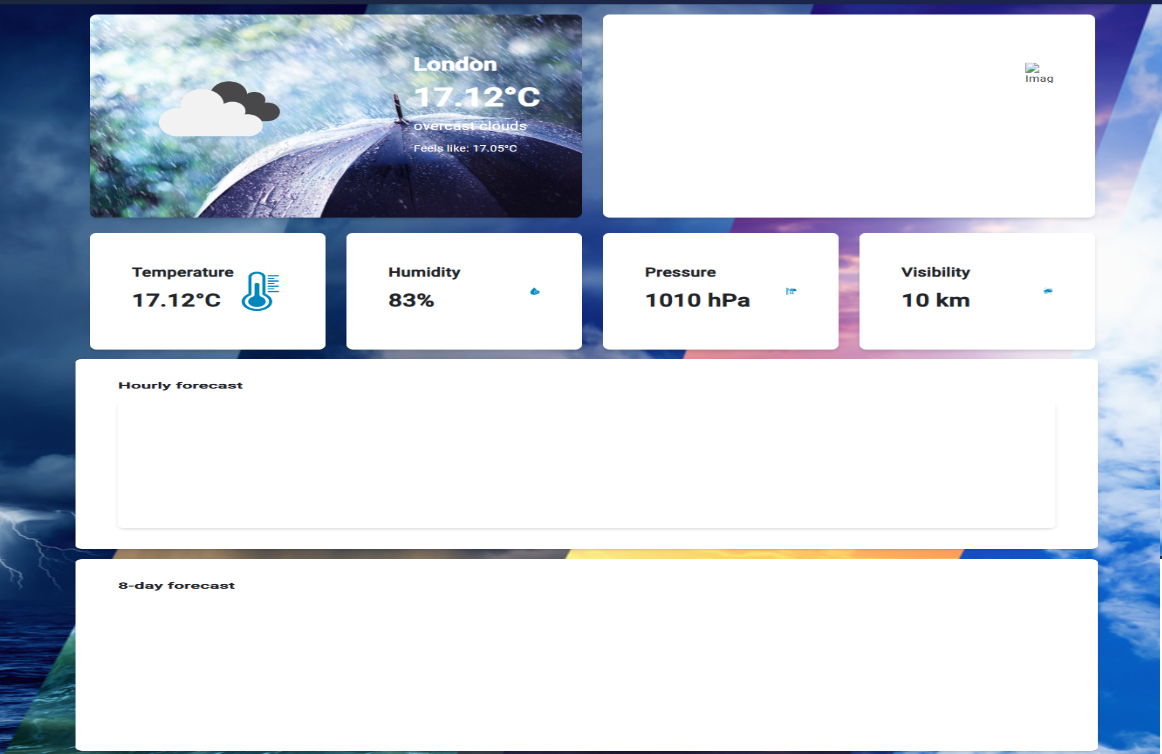
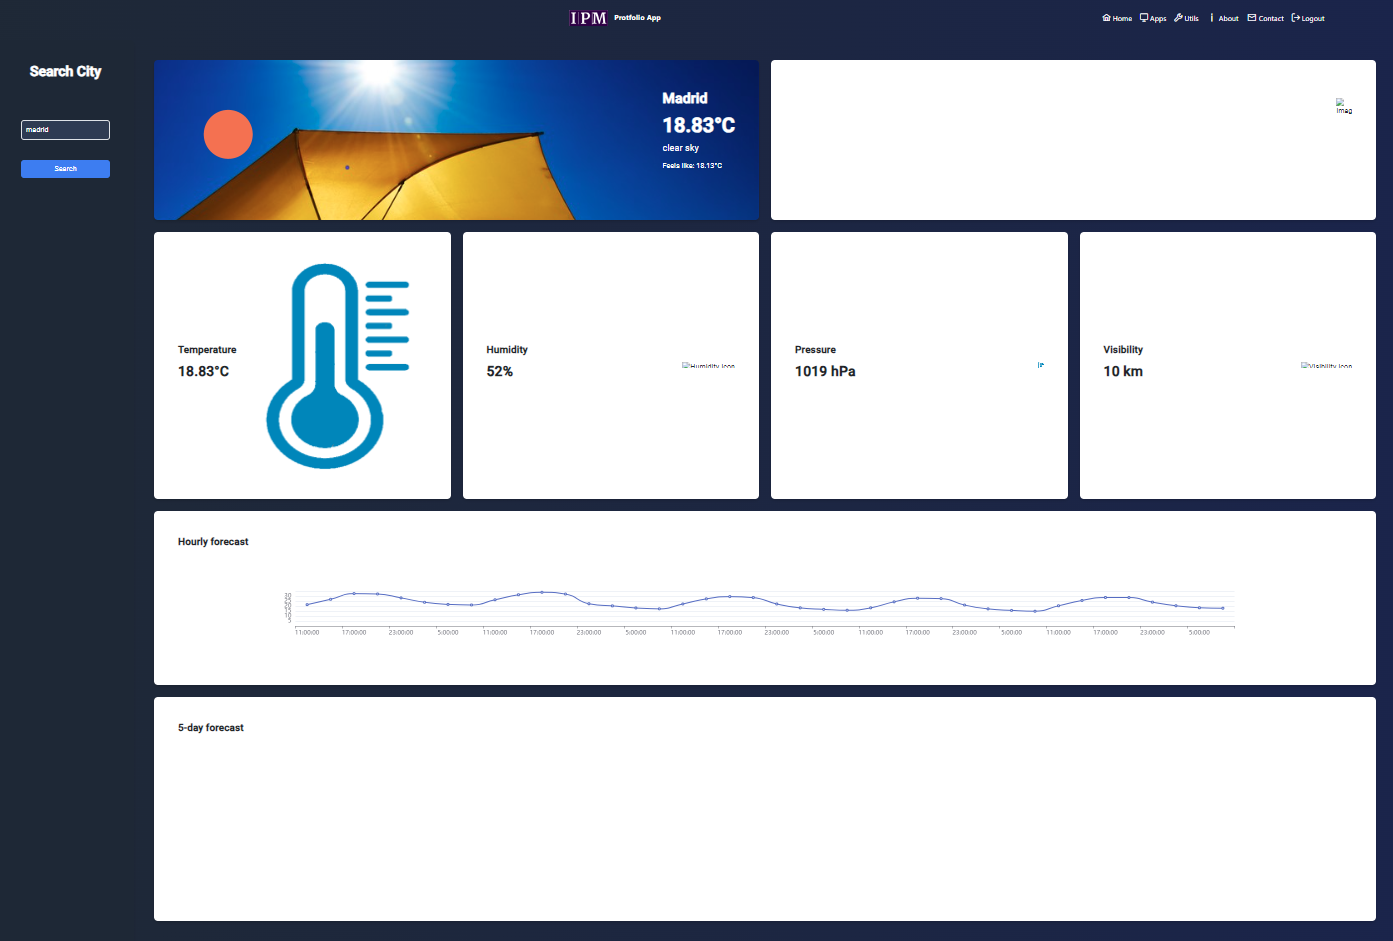
modified:   src/app/Apps-Tools/app-weather/components/forecast/forecast.component.ts 	modified:   src/app/Apps-Tools/app-weather/components/weather-results/weather-results.component.css 	modified:   src/app/Apps-Tools/app-weather/components/weather-results/weather-results.component.html 	modified:  

diff --git a/src/app/Apps-Tools/app-weather/components/weather-results/weather-results.component.ts b/src/app/Apps-Tools/app-weather/components/weather-results/weather-results.component.ts
@@ -1,33 +1,40 @@
-import { Component, Input, OnInit } from '@angular/core';
+import { Component, Input, OnInit, OnChanges, SimpleChanges } from '@angular/core';
 
 @Component({
   selector: 'app-weather-results',
   templateUrl: './weather-results.component.html',
   styleUrls: ['./weather-results.component.css']
 })
-export class WeatherResultsComponent implements OnInit {
+export class WeatherResultsComponent implements OnInit, OnChanges {
   @Input() weather: any;
   @Input() forecast: any;
   @Input() chartData: any;
+
   currentDate: string = '';
   currentTime: string = '';
   hourlyChartOptions: any;
   dailyChartOptions: any;
-  weeklyForecast: any[] = [];  // Añadimos la definición de weeklyForecast
-  recommendation: { text: string, imageUrl: string, backgroundImageUrl: string } = {
-    text: 'No recommendation available.',
-    imageUrl: 'assets/default-image.png',
-    backgroundImageUrl: 'assets/default-bg.jpg'
-  };
+  weeklyForecast: any[] = [];
+  recommendation: { text: string, imageUrl: string } = { text: '', imageUrl: '' };
 
   ngOnInit(): void {
     if (this.weather && this.forecast && this.chartData) {
-      this.setDateTime();
-      this.setHourlyChartOptions();
-      this.setDailyChartOptions();
-      this.setWeeklyForecast();
-      this.setRecommendation();
+      this.initializeData();
     }
+  }
+
+  ngOnChanges(changes: SimpleChanges): void {
+    if (changes['weather'] && this.weather) {
+      this.initializeData();
+    }
+  }
+
+  initializeData(): void {
+    this.setDateTime();
+    this.setHourlyChartOptions();
+    this.setDailyChartOptions();
+    this.setWeeklyForecast();
+    this.setRecommendation();
   }
 
   setDateTime() {
@@ -57,8 +64,8 @@ export class WeatherResultsComponent implements OnInit {
   }
 
   setDailyChartOptions() {
-    const dates = this.forecast.list.filter((entry: any, index: number) => index % 8 === 0).slice(0, 5).map((entry: any) => new Date(entry.dt * 1000).toLocaleDateString());
-    const temperatures = this.forecast.list.filter((entry: any, index: number) => index % 8 === 0).slice(0, 5).map((entry: any) => entry.main.temp);
+    const dates = this.forecast.map((entry: any) => new Date(entry.dt * 1000).toLocaleDateString());
+    const temperatures = this.forecast.map((entry: any) => entry.temp.day);
 
     this.dailyChartOptions = {
       xAxis: {
@@ -77,18 +84,17 @@ export class WeatherResultsComponent implements OnInit {
   }
 
   setWeeklyForecast() {
-    this.weeklyForecast = this.forecast.list.filter((entry: any, index: number) => index % 8 === 0).slice(0, 5).map((data: any) => ({
+    this.weeklyForecast = this.forecast.slice(0, 5).map((data: any) => ({
       name: new Date(data.dt * 1000).toLocaleDateString('default', { weekday: 'short', month: 'short', day: 'numeric' }),
       temp: {
-        day: data.main.temp,
-        night: data.main.temp_min
+        day: data.temp.day,
       },
       weather: data.weather
     }));
   }
 
   getBackgroundImage() {
-    const weatherDescription = this.weather.weather[0].description.toLowerCase();
+    const weatherDescription = this.weather['weather'][0].description.toLowerCase();
 
     switch (true) {
       case weatherDescription.includes('clear') || weatherDescription.includes('few clouds') || weatherDescription.includes('scattered clouds'):
@@ -105,42 +111,37 @@ export class WeatherResultsComponent implements OnInit {
   }
 
   setRecommendation() {
-    const weatherDescription = this.weather.weather[0].description.toLowerCase();
+    const weatherDescription = this.weather['weather'][0].description.toLowerCase();
 
     switch (true) {
       case weatherDescription.includes('clear') || weatherDescription.includes('few clouds') || weatherDescription.includes('scattered clouds'):
         this.recommendation = {
           text: 'It\'s a beautiful day! Why not go for a walk or have a picnic?',
-          imageUrl: 'assets/recommendations/buenclima.jpg',
-          backgroundImageUrl: 'assets/typeofday/soleado.jpg'
+          imageUrl: 'assets/recommendations/buenclima.jpg'
         };
         break;
       case weatherDescription.includes('broken clouds') || weatherDescription.includes('overcast clouds'):
         this.recommendation = {
           text: 'It\'s a bit cloudy today. How about visiting a museum or going to the movies?',
-          imageUrl: 'assets/recommendations/museum.png.jpg',
-          backgroundImageUrl: 'assets/typeofday/cloud.jpg'
+          imageUrl: 'assets/recommendations/museum.png'
         };
         break;
       case weatherDescription.includes('rain') || weatherDescription.includes('shower rain') || weatherDescription.includes('thunderstorm'):
         this.recommendation = {
           text: 'It\'s raining outside. Why not stay indoors and read a book or play a game?',
-          imageUrl: 'assets/recommendations/juegosmesa.png',
-          backgroundImageUrl: 'assets/typeofday/rainy.jpg'
+          imageUrl: 'assets/recommendations/juegosmesa.png'
         };
         break;
       case weatherDescription.includes('snow') || weatherDescription.includes('light snow') || weatherDescription.includes('heavy snow'):
         this.recommendation = {
           text: 'It\'s snowing! How about building a snowman or going skiing?',
-          imageUrl: 'assets/recommendations/urbalchill.jpg',
-          backgroundImageUrl: 'assets/typeofday/snow.jpg'
+          imageUrl: 'assets/recommendations/urbalchill.jpg'
         };
         break;
       default:
         this.recommendation = {
           text: 'Be careful out there! The weather is extreme.',
-          imageUrl: 'assets/recommendations/becarefull.png',
-          backgroundImageUrl: 'assets/typeofday/extreme.jpg'
+          imageUrl: 'assets/recommendations/becarefull.png'
         };
         break;
     }

diff --git a/src/app/Apps-Tools/app-weather/components/weather-results/weather-results.component.html b/src/app/Apps-Tools/app-weather/components/weather-results/weather-results.component.html
@@ -1,35 +1,44 @@
-<div class="grid grid-cols-1 md:grid-cols-2 lg:grid-cols-4 gap-4 w-full md:max-w-6xl mx-auto">
+<div class="grid grid-cols-1 md:grid-cols-10 lg:grid-cols-10 gap-4 w-full md:max-w-8xl mx-auto">
   <!-- Información principal -->
-  <div [style.backgroundImage]="getBackgroundImage()" class="bg-white p-6 rounded-lg shadow-md flex flex-col col-span-1 md:col-span-2 lg:col-span-2 bg-cover bg-center">
+  <div [style.backgroundImage]="getBackgroundImage()" class="bg-gradient-to-r from-white to-blue-300 p-6 rounded-lg shadow-md flex flex-col col-span-1 md:col-span-4 lg:col-span-4 bg-cover bg-center">
     <div class="flex items-center justify-between mb-4">
       <div>
-        <img src="http://openweathermap.org/img/wn/{{ weather.weather[0].icon }}@4x.png" alt="Weather Icon">
+        <img src="http://openweathermap.org/img/wn/{{ weather['weather'][0].icon }}@4x.png" alt="Weather Icon">
       </div>
       <div>
         <h2 class="text-3xl text-white font-bold">{{ weather.name }}</h2>
         <p class="text-xl text-white">{{ currentDate }} {{ currentTime }}</p>
         <p class="text-5xl text-white font-bold">{{ weather.main.temp }}°C</p>
-        <p class="text-lg text-white">{{ weather.weather[0].description }}</p>
+        <p class="text-lg text-white">{{ weather['weather'][0].description }}</p>
         <p class="mt-2 text-white text-sm">Feels like: {{ weather.main.feels_like }}°C</p>
       </div>
     </div>
   </div>
 
   <!-- Recomendación de actividades -->
-  <div *ngIf="recommendation" [style.backgroundImage]="recommendation.backgroundImageUrl" class="bg-white p-6 rounded-lg shadow-md flex flex-col col-span-1 md:col-span-2 lg:col-span-2 bg-cover bg-center">
+  <div [style.backgroundImage]="'url(' + recommendation.imageUrl + ')'" class="bg-gradient-to-r from-white to-blue-300 p-6 rounded-lg shadow-md flex flex-col col-span-1 md:col-span-4 lg:col-span-4 row-span-1 md:row-span-2 lg:row-span-2 bg-cover bg-center">
     <div class="flex items-center justify-between mb-4">
       <div>
         <h2 class="text-3xl font-bold text-white">Recomendación de actividades</h2>
         <p class="text-lg text-white">{{ recommendation.text }}</p>
       </div>
-      <div>
-        <img [src]="recommendation.imageUrl" alt="Imagen de la actividad recomendada" class="h-24 w-24 object-cover">
+    </div>
+  </div>
+
+  <!-- Pronóstico semanal -->
+  <div class="bg-gradient-to-r from-white to-blue-300 p-6 rounded-lg shadow-md col-span-1 md:col-span-2 lg:col-span-2 row-span-1 md:row-span-3 lg:row-span-3">
+    <h3 class="text-xl font-bold mb-4">5-day forecast</h3>
+    <div class="grid grid-cols-5 gap-4">
+      <div *ngFor="let day of weeklyForecast" class="flex flex-col items-center">
+        <p class="text-lg font-bold">{{ day.name }}</p>
+        <img src="http://openweathermap.org/img/wn/{{ day.weather[0].icon }}@2x.png" alt="Weather Icon">
+        <p class="text-lg">{{ day.temp.day }}°C</p>
       </div>
     </div>
   </div>
 
   <!-- Tarjeta de Temperatura -->
-  <div class="bg-white p-6 rounded-lg shadow-md flex items-center justify-between">
+  <div class="bg-gradient-to-r from-blue-50 to-white p-6 rounded-lg shadow-md flex items-center justify-between">
     <div>
       <p class="text-xl font-bold">Temperature</p>
       <p class="text-3xl font-bold">{{ weather.main.temp }}°C</p>
@@ -40,18 +49,18 @@
   </div>
 
   <!-- Tarjeta de Humedad -->
-  <div class="bg-white p-6 rounded-lg shadow-md flex items-center justify-between">
+  <div class="bg-gradient-to-r from-blue-50 to-white p-5 rounded-lg shadow-md flex items-start justify-between">
     <div>
-      <p class="text-xl font-bold">Humidity</p>
-      <p class="text-3xl font-bold">{{ weather.main.humidity }}%</p>
+      <p class="text-base font-bold">Humidity</p>
+      <p class="text-base font-bold">{{ weather.main.humidity }}%</p>
     </div>
     <div>
-      <img src="assets/humedad.png" alt="Humidity Icon" class="h-24 w-24">
+      <img src="assets/humedad.png" alt="Humidity Icon" >
     </div>
   </div>
 
   <!-- Tarjeta de Presión -->
-  <div class="bg-white p-6 rounded-lg shadow-md flex items-center justify-between">
+  <div class="bg-gradient-to-r from-blue-50 to-white p-5 rounded-lg shadow-md flex items-center justify-between">
     <div>
       <p class="text-xl font-bold">Pressure</p>
       <p class="text-3xl font-bold">{{ weather.main.pressure }} hPa</p>
@@ -62,7 +71,7 @@
   </div>
 
   <!-- Tarjeta de Visibilidad -->
-  <div class="bg-white p-6 rounded-lg shadow-md flex items-center justify-between">
+  <div class="bg-gradient-to-r from-blue-50 to-white p-5 rounded-lg shadow-md flex items-center justify-between">
     <div>
       <p class="text-xl font-bold">Visibility</p>
       <p class="text-3xl font-bold">{{ weather.visibility / 1000 }} km</p>
@@ -73,14 +82,8 @@
   </div>
 
   <!-- Gráfica del clima por horas -->
-  <div class="bg-white p-6 rounded-lg shadow-md col-span-1 md:col-span-2 lg:col-span-4">
+  <div class="bg-gradient-to-r from-white to-blue-300 p-5 rounded-lg shadow-md col-span-1 md:col-span-8 lg:col-span-8">
     <h3 class="text-xl font-bold mb-4">Hourly forecast</h3>
     <app-forecast [forecastData]="forecast"></app-forecast>
-  </div>
-
-  <!-- Pronóstico semanal -->
-  <div class="bg-white p-6 rounded-lg shadow-md col-span-1 md:col-span-2 lg:col-span-4">
-    <h3 class="text-xl font-bold mb-4">5-day forecast</h3>
-    <div echarts [options]="dailyChartOptions" class="echart" style="height: 300px;"></div>
   </div>
 </div>

diff --git a/src/app/Apps-Tools/app-weather/components/forecast/forecast.component.ts b/src/app/Apps-Tools/app-weather/components/forecast/forecast.component.ts
@@ -1,23 +1,24 @@
-import { Component, Input, OnInit } from '@angular/core';
+import { Component, Input, OnChanges } from '@angular/core';
+import { EChartsOption } from 'echarts';
 
 @Component({
   selector: 'app-forecast',
   templateUrl: './forecast.component.html',
   styleUrls: ['./forecast.component.css']
 })
-export class ForecastComponent implements OnInit {
+export class ForecastComponent implements OnChanges {
   @Input() forecastData: any;
-  options: any;  // Definimos la propiedad options
+  options: EChartsOption = {};
 
-  ngOnInit(): void {
+  ngOnChanges(): void {
     if (this.forecastData) {
       this.setOptions();
     }
   }
 
-  setOptions() {
-    const dates = this.forecastData.slice(0, 8).map((entry: any) => new Date(entry.dt * 1000).toLocaleTimeString([], { hour: '2-digit', minute: '2-digit' }));
-    const temperatures = this.forecastData.slice(0, 8).map((entry: any) => entry.main.temp);
+  setOptions(): void {
+    const dates = this.forecastData.list.map((entry: any) => new Date(entry.dt * 1000).toLocaleTimeString());
+    const temperatures = this.forecastData.list.map((entry: any) => entry.main.temp);
 
     this.options = {
       xAxis: {
@@ -35,4 +36,3 @@ export class ForecastComponent implements OnInit {
     };
   }
 }
-

diff --git a/src/app/Apps-Tools/app-weather/components/weather-results/weather-results.component.css b/src/app/Apps-Tools/app-weather/components/weather-results/weather-results.component.css
@@ -11,8 +11,8 @@
   grid-template-columns: repeat(2, 1fr);
 }
 
-.grid-cols-4 {
-  grid-template-columns: repeat(4, 1fr);
+.grid-cols-3 {
+  grid-template-columns: repeat(3, 1fr);
 }
 
 .bg-white {
@@ -20,11 +20,11 @@
 }
 
 .p-6 {
-  padding: 16px;
+  padding: 1.5rem; 
 }
 
 .rounded-lg {
-  border-radius: 8px;
+  border-radius: 0.5rem; /* 8px */
 }
 
 .shadow-md {
@@ -32,27 +32,27 @@
 }
 
 .text-3xl {
-  font-size: 24px;
+  font-size: 1.875rem; /* 30px */
 }
 
 .font-bold {
-  font-weight: bold;
+  font-weight: 700;
 }
 
 .text-lg {
-  font-size: 18px;
+  font-size: 1.125rem; /* 18px */
 }
 
 .text-sm {
-  font-size: 14px;
+  font-size: 0.875rem; /* 14px */
 }
 
 .h-32 {
-  height: 32px;
+  height: 8rem; /* 128px */
 }
 
 .w-32 {
-  width: 32px;
+  width: 8rem; /* 128px */
 }
 
 .object-cover {
@@ -60,9 +60,9 @@
 }
 
 .h-12 {
-  height: 12px;
+  height: 3rem; /* 48px */
 }
 
 .w-12 {
-  width: 12px;
+  width: 3rem; /* 48px */
 }

diff --git a/src/app/Apps-Tools/app-weather/components/weather-search/weather-search.component.html b/src/app/Apps-Tools/app-weather/components/weather-search/weather-search.component.html
@@ -1,5 +1,5 @@
-<main class="container mx-auto mt-8">
-  <div class="max-w-md mx-auto bg-gradient-to-r from-gray-800 to-blue-950 p-6 rounded-lg shadow-md">
+<div class="flex">
+  <div class="w-1/8  bg-gray-800 rounded-lg shadow-md">
     <h1 class="text-3xl font-bold mb-8 text-center text-white">Search City</h1>
     <form (ngSubmit)="getWeather()">
       <div class="mb-4">
@@ -8,5 +8,7 @@
       <button type="submit" class="w-full bg-blue-500 text-white p-2 rounded hover:bg-blue-400">Search</button>
     </form>
   </div>
-  <app-weather-results *ngIf="weather" [weather]="weather" [forecast]="forecast" [chartData]="chartData"></app-weather-results>
-</main>
+  <div class="w-7/8 p-6">
+    <app-weather-results *ngIf="weather" [weather]="weather" [forecast]="forecast" [chartData]="chartData"></app-weather-results>
+  </div>
+</div>

diff --git a/src/app/Apps-Tools/app-weather/components/weather-search/weather-search.component.css b/src/app/Apps-Tools/app-weather/components/weather-search/weather-search.component.css
@@ -1,8 +1,5 @@
 /* Añadir tus estilos personalizados aquí */
 
-.bg-blue-950 {
-  background-color: #1e3a8a;
-}
 
 .bg-image {
   background-image: url('/assets/weather_blue.jpg'); /* Ajustar la ruta según sea necesario */
